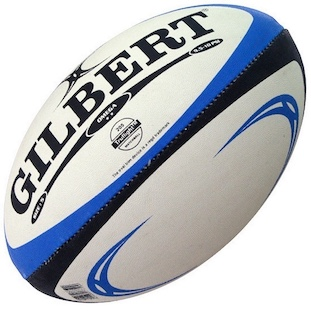
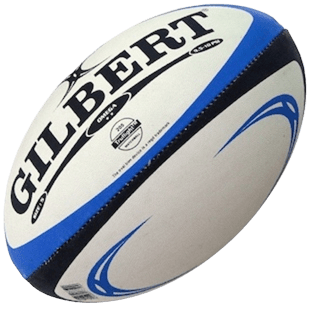
Transparent background products

diff --git a/src/main/java/backend/DatabaseManagerH2.java b/src/main/java/backend/DatabaseManagerH2.java
@@ -974,23 +974,12 @@ public class DatabaseManagerH2
 	     */
 	    public void addProductsToDatabase()
 	    {
-	    	/*
-	    	addToProductTable("Ballon de football PSG", "Balle de football officielle du Paris-Saint-Germain saison 2023. Taille 5.", "PSG", 29.99, 25, "src/main/resources/balle_psg.png", "blue, red", 0);
-	    	addToProductTable("Maillot OM", "Maillot officiel de l'Olympique de Marseille.", "Puma", 45, 20, "src/main/resources/maillot.png", "white, blue", 0);
-	    	addToProductTable("Chasuble", "Chasuble rouge taille adulte", "Décathlon", 3.99, 100, "src/main/resources/chasuble.png", "red", 0);
-	    	addToProductTable("Gants Hyperact Starter", "Gants de gardien de football bleu noir.", "Uhlsport", 54.99, 30, "src/main/resources/gants_foot.png", "blue, black", 0);
-	    	addToProductTable("Balle de rugby Gilbert Omega", "Balle de rugby Gilbert Match modèle Omega", "Gilbert", 38, 60, "src/main/resources/balle_rugby.png", "white, blue, black", 0);
-	    	addToProductTable("Lunettes de natation 100XBase", "Lunettes de natation rose bleu 100XBase taille S Nabaji", "Nabaji", 14, 80, "src/main/resources/lunettes.png", "pink, blue", 0);
-	    	addToProductTable("Ballon de football OM", "Balle de football officielle de l'Olympique de Marseille. Taille 5", "Olympique de Marseille", 17, 34, "src/main/resources/balle_om.png", "black, blue", 0);
-	    	addToProductTable("Plots d'entraînement", "Plots pour entraînement de football. Couleurs : bleu, rouge, jaune, blanc.", "Kappa", 8.50, 60, "src/main/resources/plots.png", "white, blue, yellow, red", 0);
-	    	addToProductTable("Short de sport noir.", "Short Adidas Essentials homme 3 rayures Chelsea sport gymnastique climalite original.", "Adidas", 15.90, 55, "src/main/resources/short.png", "black", 0);
-	    	*/
 	    	addToProductTable("PSG football", "Official and certified Paris-Saint-Germain football (2023 season)", "PSG", 2999, 25, "balle_psg.png", "blue, red", 0);
 	    	addToProductTable("OM Jersey", "Olympique de Marseille official home jersey", "Puma", 4900, 20, "maillot.png", "white, blue", 0);
 	    	addToProductTable("Bib", "Multi-purpose red bib, adult size", "Décathlon", 399, 100, "chasuble.png", "red", 0);
 	    	addToProductTable("Hyperact Starter Gloves", "Football goalkeeping gloves", "Uhlsport", 5499, 30, "gants_foot.png", "blue, black", 0);
 	    	addToProductTable("Gilbert Omega rugby ball", "Gilbert rugby ball, Omega model", "Gilbert", 3800, 60, "balle_rugby.png", "white, blue, black", 0);
-	    	addToProductTable("100XBase Swimming Goggles", "Blue-pinkish swimming goggles, 100XBase. For children.", "Nabaji", 1449, 80, "lunettes.png", "pink, blue", 0);
+	    	addToProductTable("100XBase Swimming Goggles", "Blue-pinkish swimming goggles, 100XBase. For children.", "Nabaji", 1449, 80, "lunettes.png", "magenta, cyan", 0);
 	    	addToProductTable("Olympique de Marseille football", "Official and certified OM football (2022 season)", "Olympique de Marseille", 1779, 34, "balle_om.png", "black, blue", 0);
 	    	addToProductTable("Training cones", "Football training cones. Several colours are available : blue, red, yellow and white.", "Kappa", 850, 60, "plots.png", "white, blue, yellow, red", 0);
 	    	addToProductTable("Black shorts", "Adidas sportswear : Black Shorts. Essentials for Men. Chelsea 3-striped model.", "Adidas", 1590, 55, "short.png", "black", 0);
